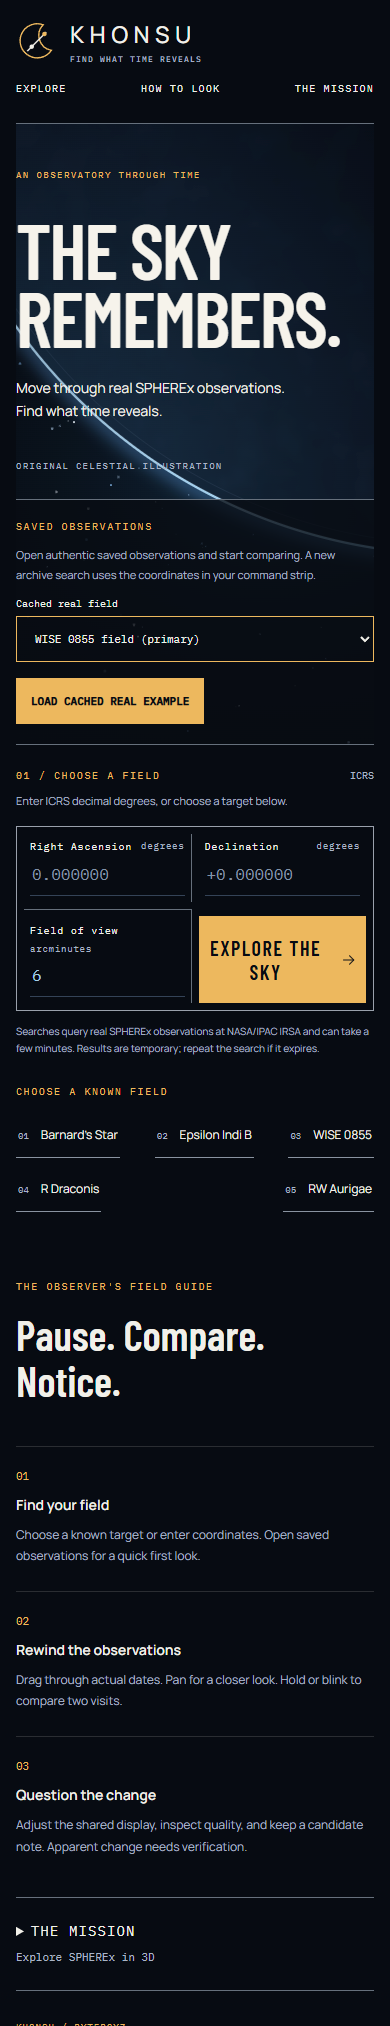
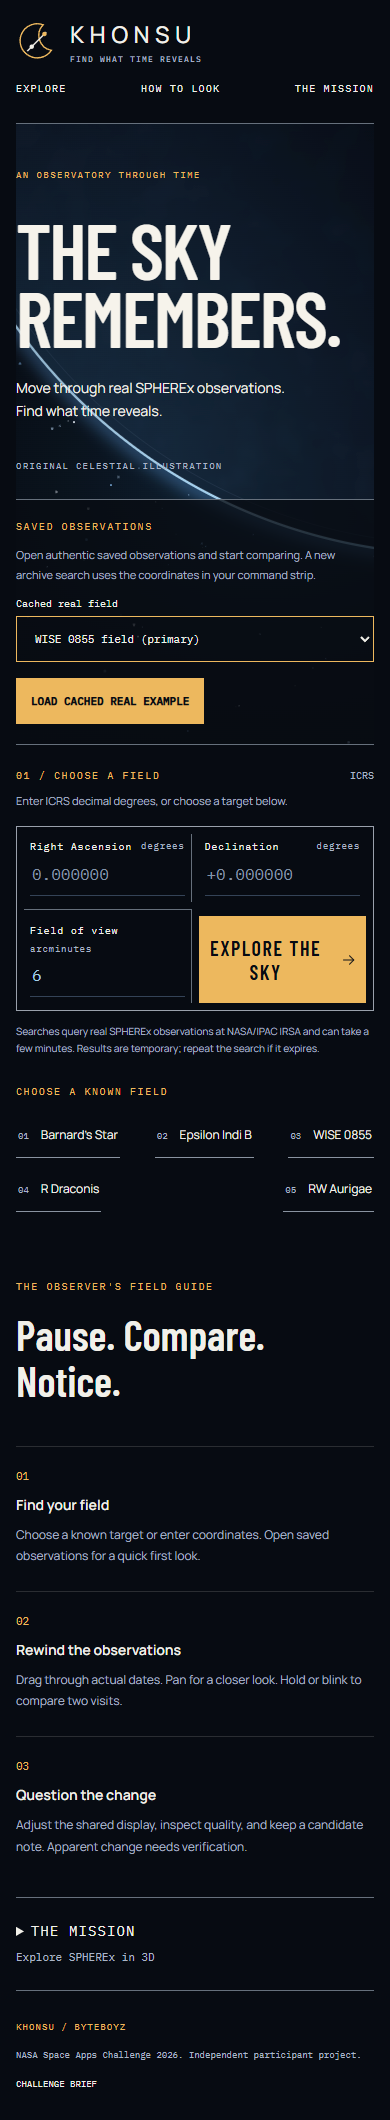
Keep console transport reachable and preserve search recovery actions

diff --git a/apps/web/src/features/viewer/SkyViewer.tsx b/apps/web/src/features/viewer/SkyViewer.tsx
@@ -132,8 +132,8 @@ function ObservationConsole({ sequence, activeFrameId, annotations, onFrameChang
     <p id="viewer-help" className={styles.hint}>{tool==='time'?'Drag left for earlier, right for later. Arrow keys step observations.':tool==='pan'?'Drag to pan. Scroll or pinch to zoom. Arrow keys move; 0 fits the field.':`Select a pixel, or use arrow keys then Enter. Keyboard cursor: ${cursor.x}, ${cursor.y}.`} Space plays or pauses.</p>
     <PlaybackControls frames={frames} index={index} playing={playing} speed={speed} onSpeed={setSpeed} onIndexChange={selectIndex} onToggle={()=>{setBlink(false);releaseHold();if(!playing&&index===frames.length-1&&frames[0])onFrameChange(frames[0].frame_id);setPlaying(!playing);}} />
     {active&&<div className={styles.comparison}>
-      <label>EARLIER / A<select aria-label="Comparison A" value={a} onChange={event=>{stop();setA(Number(event.target.value));}}>{frames.map((frame,i)=><option key={frame.frame_id} value={i}>{i+1}: {observationLabel(frame.observed_start_utc)}</option>)}</select></label>
-      <label>LATER / B<select aria-label="Comparison B" value={b} onChange={event=>{stop();setB(Number(event.target.value));}}>{frames.map((frame,i)=><option key={frame.frame_id} value={i}>{i+1}: {observationLabel(frame.observed_start_utc)}</option>)}</select></label>
+      <label>REFERENCE / A<select aria-label="Comparison A" value={a} onChange={event=>{stop();setA(Number(event.target.value));}}>{frames.map((frame,i)=><option key={frame.frame_id} value={i}>{i+1}: {observationLabel(frame.observed_start_utc)}</option>)}</select></label>
+      <label>COMPARE / B<select aria-label="Comparison B" value={b} onChange={event=>{stop();setB(Number(event.target.value));}}>{frames.map((frame,i)=><option key={frame.frame_id} value={i}>{i+1}: {observationLabel(frame.observed_start_utc)}</option>)}</select></label>
       <button disabled={a===b} aria-pressed={blink} onClick={()=>{setPlaying(false);releaseHold();onFrameChange(frames[a]!.frame_id);setBlink(!blink);}}>{blink?'STOP BLINK':'BLINK A/B'}</button>
       <button disabled={a===b} onPointerDown={event=>{event.currentTarget.setPointerCapture(event.pointerId);beginHold();}} onPointerUp={releaseHold} onPointerCancel={releaseHold} onLostPointerCapture={releaseHold} onBlur={releaseHold} onKeyDown={event=>{if(event.key===' '||event.key==='Enter'){event.preventDefault();beginHold();}}} onKeyUp={event=>{if(event.key===' '||event.key==='Enter')releaseHold();}}>HOLD FOR B</button>
     </div>}
@@ -151,7 +151,7 @@ function ObservationConsole({ sequence, activeFrameId, annotations, onFrameChang
         <button onClick={()=>setDisplay({...original,a:.3})}>QUIET PRESET</button><button onClick={()=>setDisplay(original)}>ORIGINAL / RESET</button>
       </fieldset>
       <label className={styles.rendererChoice}>Rendering <select aria-label="Rendering mode" value={forceCpu?'cpu':'auto'} onChange={event=>setForceCpu(event.target.value==='cpu')}><option value="auto">Automatic GPU / CPU</option><option value="cpu">CPU</option></select></label>
-      <p className={styles.hint}>One display setting across all epochs. Black {display.low.toPrecision(4)} / white {display.high.toPrecision(4)} MJy/sr ? {display.curve} {display.a.toFixed(2)} ? gamma {display.gamma.toFixed(2)}. Display changes do not add measured detail.</p>
+      <p className={styles.hint}>One display setting across all epochs. Black {display.low.toPrecision(4)} / white {display.high.toPrecision(4)} MJy/sr | {display.curve} {display.a.toFixed(2)} | gamma {display.gamma.toFixed(2)}. Display changes do not add measured detail.</p>
     </details>}
     {sequence&&<details className={styles.provenance}><summary>Observation details & quality</summary><p>{sequence.disclosure}</p><p>{active?.observation_id} · {active?.release} · {active?.wavelength_um?.toFixed(4)} μm · {((active?.masked_fraction ?? 0)*100).toFixed(1)}% masked</p>{active?.source_fits_url&&<a href={active.source_fits_url} target="_blank" rel="noreferrer">Source FITS at IRSA</a>}{[...(sequence.warnings??[]),...(active?.warnings??[])].map((warning,i)=><p key={i}>{warning.message}</p>)}</details>}
   </section>;

diff --git a/apps/web/src/features/explorer/ExplorerScreen.tsx b/apps/web/src/features/explorer/ExplorerScreen.tsx
@@ -132,7 +132,7 @@ export function ExplorerScreen() {
   const picker=<CachedExamplePicker examples={examples} selectedId={selectedExampleId} error={exampleError} loading={examplesLoading} onSelect={id=>{activeExampleLoad.current?.abort();activeExampleLoad.current=null;setSelectedExampleId(id);setExampleError('');}} onLoad={()=>void loadExample()}/>;
   const showConsole=!!sequence||search.phase!=='idle';
   return (
-    <div id="top" className={styles.site} data-loaded={!!sequence}>
+    <div id="top" className={styles.site} data-loaded={showConsole}>
       <a className="skip-link" href="#field-command">Skip to field controls</a>
       <header className={styles.header}>
         <Brand />
@@ -143,7 +143,7 @@ export function ExplorerScreen() {
         <section className={styles.introduction} aria-labelledby="hero-title">
           <div className={styles.celestial} aria-hidden="true" />
           <div className={styles.heroCopy}><span className={styles.eyebrow}>AN OBSERVATORY THROUGH TIME</span><h1 id="hero-title">THE SKY<br/>REMEMBERS.</h1><p>Move through real SPHEREx observations.<br/>Find what time reveals.</p><span className={styles.artLabel}>ORIGINAL CELESTIAL ILLUSTRATION</span></div>
-          {!sequence&&<aside className={styles.entryPanel} aria-label="Open saved observations"><img src="/khonsu-mark.svg" width="100" height="100" alt=""/><p className={styles.tagline}>One sky.<br/>Many moments.</p>{picker}</aside>}
+          {!showConsole&&<aside className={styles.entryPanel} aria-label="Open saved observations"><img src="/khonsu-mark.svg" width="100" height="100" alt=""/><p className={styles.tagline}>One sky.<br/>Many moments.</p>{picker}</aside>}
         </section>
         <section id="field-command" className={styles.command} aria-label="Choose a sky field">
           <CoordinateForm target={selectedTarget} onSubmit={request=>void submit(request)} busy={search.phase==='running'}/>

diff --git a/apps/web/src/features/explorer/CoordinateForm.tsx b/apps/web/src/features/explorer/CoordinateForm.tsx
@@ -12,7 +12,7 @@ export function CoordinateForm({ onSubmit, busy, target }: { onSubmit: (request:
   const [dec, setDec] = useState("");
   const [fov, setFov] = useState("6");
   const [error, setError] = useState("");
-  useEffect(()=>{if(target?.ra_deg!=null&&target.dec_deg!=null){const parsed=parseCoordinates(String(target.ra_deg),String(target.dec_deg),fov);if(parsed.ok){setRa(String(target.ra_deg));setDec(String(target.dec_deg));setError('');}}},[target]);
+  useEffect(()=>{if(target?.ra_deg!=null&&target.dec_deg!=null){const parsed=parseCoordinates(String(target.ra_deg),String(target.dec_deg),"6");if(parsed.ok){setRa(String(target.ra_deg));setDec(String(target.dec_deg));setError('');}}},[target]);
 
   function submit(event: FormEvent<HTMLFormElement>) {
     event.preventDefault();

diff --git a/apps/web/src/features/viewer/viewer.module.css b/apps/web/src/features/viewer/viewer.module.css
@@ -46,4 +46,5 @@
 .displayControls label { display: flex; flex-direction: column; gap: 6px; color: var(--silver); }
 .displayControls input { width: 100%; accent-color: var(--amber); min-height: 30px; }
 .displayControls .rendererChoice { flex-direction: row; align-items: center; flex-wrap: wrap; }
+@media(min-width:1100px){ .instrument:not(.expanded){max-width:clamp(480px,calc(100svh - 500px),780px);} }
 @media(max-width:520px){ .instrument{padding:12px;} .instrumentHeading{font-size:10px;} .tools button{flex:1;padding:8px;} .transportButtons button{flex:1;} .transportButtons label{width:100%;margin-top:6px;} }
